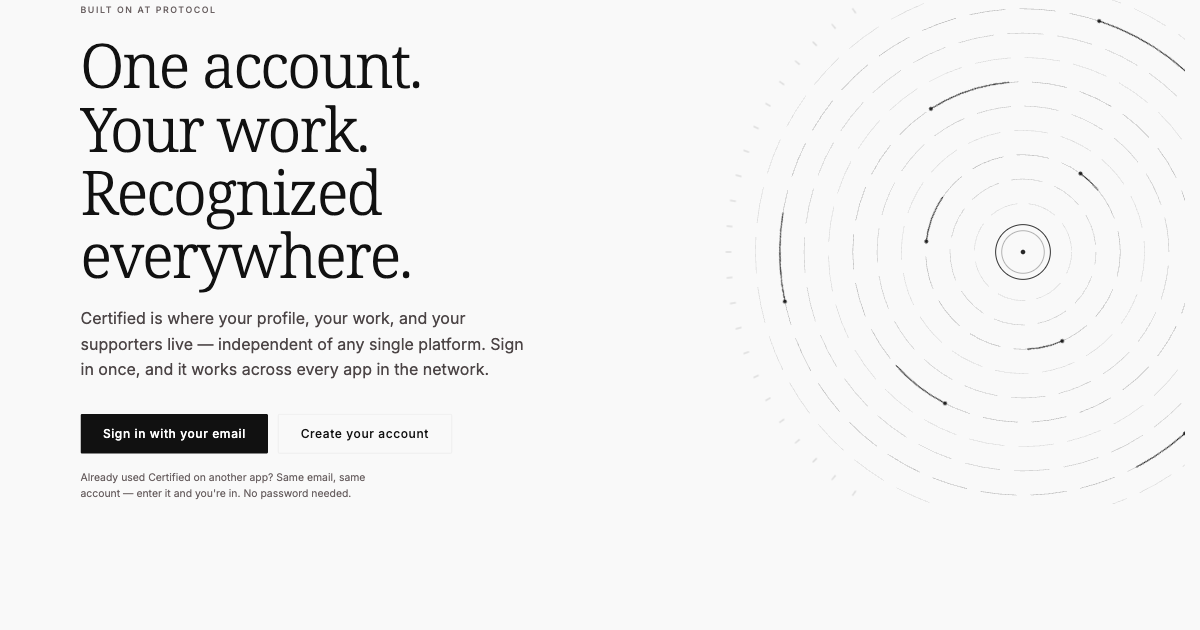
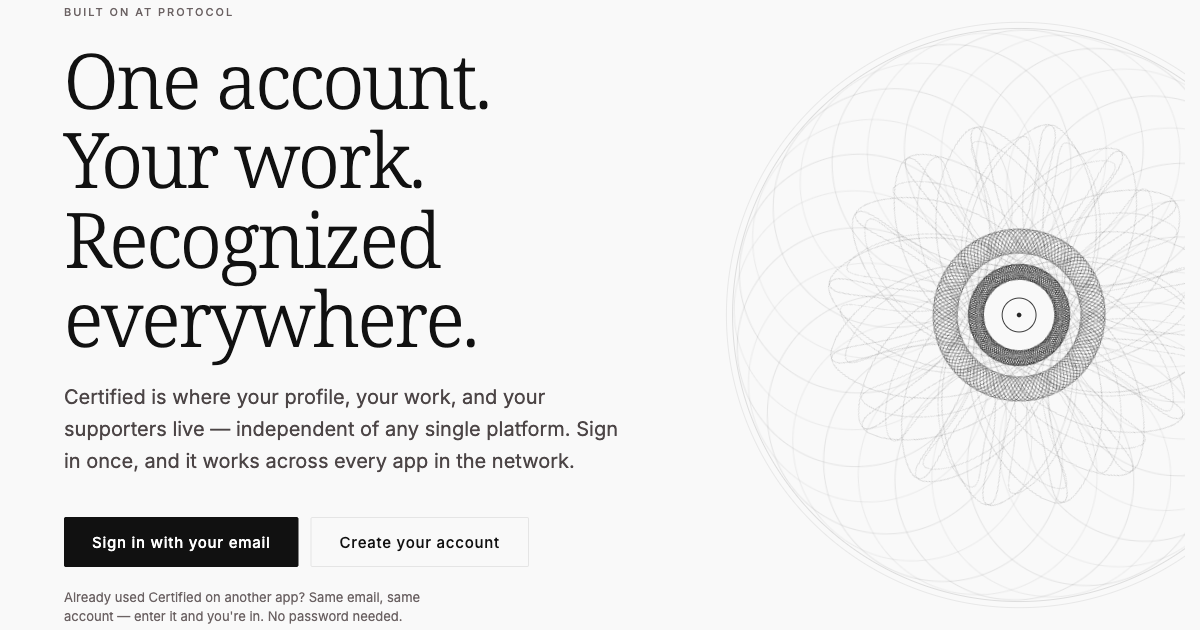
feat(welcome): replace the hero seal with an animated guilloche rosette
Engine-turned guilloche (the banknote/certificate ornament), built the
way the reference plate is: single loop shapes stamped as rotated
copies (defs + use), with ink density doing the shading. Three tonal
zones — an airy annulus of offset rings, a woven mid flower of
counter-twisted loops, and a dense core braid around the center mark.
Four layers counter-rotate at different speeds (CSS only) for the slow
moire shimmer; the global reduced-motion kill-switch freezes the plate.
Monochrome currentColor strokes, so dark mode flips for free.

The SealArt generator stays for the organizations band; the OG share
image is regenerated from the new hero.

diff --git a/src/components/landing/guilloche-art.tsx b/src/components/landing/guilloche-art.tsx
@@ -1,0 +1,149 @@
+/**
+ * GuillocheArt — the hero artwork: an engine-turned guilloche rosette,
+ * the ornament of banknotes and certificates. Three tonal zones, as on
+ * a real plate: an airy outer annulus of offset rings, a woven mid
+ * flower of counter-twisted loops, and a dense dark core braid. Each
+ * zone is ONE path stamped as rotated copies (defs + use), so ink
+ * density does the shading — no gradients, currentColor only (the
+ * .lp-hero__art wrapper sets color: var(--color-navy), which flips
+ * with the theme).
+ *
+ * The moving effect: the four groups counter-rotate at different
+ * speeds (CSS, .lp-guilloche__layer--* in landing.css). The global
+ * reduced-motion kill-switch freezes them into a static plate.
+ */
+
+const CX = 400;
+const CY = 400;
+
+/**
+ * A slim ellipse (waist x reach) bent into an S through the center:
+ * each point is rotated by twist*sin(t), so the lobe tips shear in
+ * opposite directions — the signature guilloche loop.
+ */
+function twistedLoopPath(reach: number, waist: number, twist: number, points = 160): string {
+  let d = "";
+  for (let i = 0; i <= points; i++) {
+    const t = (i / points) * Math.PI * 2;
+    const u = waist * Math.cos(t);
+    const v = reach * Math.sin(t);
+    const a = twist * Math.sin(t);
+    const x = CX + u * Math.cos(a) - v * Math.sin(a);
+    const y = CY + u * Math.sin(a) + v * Math.cos(a);
+    d += (i === 0 ? "M" : "L") + x.toFixed(1) + " " + y.toFixed(1);
+  }
+  return d + "Z";
+}
+
+/** Closed scalloped ring r(t) = base + amp*sin(lobes*t) — the core braid. */
+function scallopPath(base: number, amp: number, lobes: number, points = 200): string {
+  let d = "";
+  for (let i = 0; i <= points; i++) {
+    const t = (i / points) * Math.PI * 2;
+    const r = base + amp * Math.sin(lobes * t);
+    const x = CX + r * Math.cos(t);
+    const y = CY + r * Math.sin(t);
+    d += (i === 0 ? "M" : "L") + x.toFixed(1) + " " + y.toFixed(1);
+  }
+  return d + "Z";
+}
+
+const RING_COPIES = 28; // outer annulus
+const LOOP_A_COPIES = 16; // mid flower, twisted +
+const LOOP_B_COPIES = 12; // mid flower, twisted - (counter-weave)
+const CORE_OUTER_COPIES = 12; // core braid, phase-spread inside one lobe
+const CORE_INNER_COPIES = 10;
+
+export default function GuillocheArt() {
+  return (
+    <div className="lp-guilloche" aria-hidden="true">
+      <svg viewBox="0 0 800 800" fill="none" xmlns="http://www.w3.org/2000/svg">
+        <defs>
+          {/* Offset ring: annulus from ~60 to ~370 without touching the core */}
+          <circle id="lpg-ring" cx={CX} cy={CY - 215} r={155} />
+          <path id="lpg-loop-a" d={twistedLoopPath(250, 56, 0.58)} />
+          <path id="lpg-loop-b" d={twistedLoopPath(232, 48, -0.66)} />
+          <path id="lpg-core-outer" d={scallopPath(96, 16, 10)} />
+          <path id="lpg-core-inner" d={scallopPath(56, 10, 12)} />
+        </defs>
+
+        {/* Containment rings — the plate's frame */}
+        <circle cx={CX} cy={CY} r={372} stroke="currentColor" strokeWidth={0.75} opacity={0.16} vectorEffect="non-scaling-stroke" />
+        <circle cx={CX} cy={CY} r={380} stroke="currentColor" strokeWidth={0.75} opacity={0.1} vectorEffect="non-scaling-stroke" />
+
+        {/* Zone A: airy outer annulus */}
+        <g className="lp-guilloche__layer lp-guilloche__layer--rings">
+          {Array.from({ length: RING_COPIES }, (_, i) => (
+            <use
+              key={i}
+              href="#lpg-ring"
+              transform={`rotate(${(i * 360) / RING_COPIES} ${CX} ${CY})`}
+              stroke="currentColor"
+              strokeWidth={0.7}
+              opacity={i % 2 === 0 ? 0.17 : 0.12}
+              vectorEffect="non-scaling-stroke"
+            />
+          ))}
+        </g>
+
+        {/* Zone B: woven mid flower — two counter-twisted, counter-rotating layers */}
+        <g className="lp-guilloche__layer lp-guilloche__layer--loops-a">
+          {Array.from({ length: LOOP_A_COPIES }, (_, i) => (
+            <use
+              key={i}
+              href="#lpg-loop-a"
+              transform={`rotate(${(i * 360) / LOOP_A_COPIES} ${CX} ${CY})`}
+              stroke="currentColor"
+              strokeWidth={0.7}
+              opacity={0.22}
+              vectorEffect="non-scaling-stroke"
+            />
+          ))}
+        </g>
+        <g className="lp-guilloche__layer lp-guilloche__layer--loops-b">
+          {Array.from({ length: LOOP_B_COPIES }, (_, i) => (
+            <use
+              key={i}
+              href="#lpg-loop-b"
+              transform={`rotate(${(i * 360) / LOOP_B_COPIES} ${CX} ${CY})`}
+              stroke="currentColor"
+              strokeWidth={0.7}
+              opacity={0.18}
+              vectorEffect="non-scaling-stroke"
+            />
+          ))}
+        </g>
+
+        {/* Zone C: dense dark core braid */}
+        <g className="lp-guilloche__layer lp-guilloche__layer--core">
+          {Array.from({ length: CORE_OUTER_COPIES }, (_, i) => (
+            <use
+              key={i}
+              href="#lpg-core-outer"
+              transform={`rotate(${(i * 36) / CORE_OUTER_COPIES} ${CX} ${CY})`}
+              stroke="currentColor"
+              strokeWidth={0.9}
+              opacity={0.5}
+              vectorEffect="non-scaling-stroke"
+            />
+          ))}
+          {Array.from({ length: CORE_INNER_COPIES }, (_, i) => (
+            <use
+              key={`i${i}`}
+              href="#lpg-core-inner"
+              transform={`rotate(${(i * 30) / CORE_INNER_COPIES} ${CX} ${CY})`}
+              stroke="currentColor"
+              strokeWidth={1}
+              opacity={0.7}
+              vectorEffect="non-scaling-stroke"
+            />
+          ))}
+        </g>
+
+        {/* The account at the center */}
+        <circle cx={CX} cy={CY} r={22} stroke="currentColor" strokeWidth={1.25} opacity={0.85} />
+        <circle cx={CX} cy={CY} r={3} fill="currentColor" opacity={0.9} />
+      </svg>
+    </div>
+  );
+}

diff --git a/src/app/styles/landing.css b/src/app/styles/landing.css
@@ -217,6 +217,39 @@
   transform-origin: 400px 400px;
 }
 
+/* ---------- Guilloche artwork (hero) ---------- */
+
+.lp-guilloche,
+.lp-guilloche svg {
+  width: 100%;
+  height: 100%;
+  display: block;
+}
+
+/* Counter-rotating layers give the engine-turned moire its slow
+   shimmer; the global reduced-motion kill-switch freezes them. */
+.lp-guilloche__layer {
+  transform-origin: 400px 400px;
+  animation: lpSealRotate linear infinite;
+}
+
+.lp-guilloche__layer--rings {
+  animation-duration: 240s;
+}
+
+.lp-guilloche__layer--loops-a {
+  animation-duration: 150s;
+}
+
+.lp-guilloche__layer--loops-b {
+  animation-duration: 110s;
+  animation-direction: reverse;
+}
+
+.lp-guilloche__layer--core {
+  animation-duration: 80s;
+}
+
 /* ---------- Hero ---------- */
 
 .lp-hero {
@@ -346,10 +379,13 @@
     overflow: hidden;
   }
   .lp-hero__art .lp-seal,
-  .lp-hero__art .lp-seal svg {
+  .lp-hero__art .lp-seal svg,
+  .lp-hero__art .lp-guilloche,
+  .lp-hero__art .lp-guilloche svg {
     height: auto;
   }
-  .lp-hero__art .lp-seal {
+  .lp-hero__art .lp-seal,
+  .lp-hero__art .lp-guilloche {
     margin-top: -8%;
   }
   .lp-hero__actions {

diff --git a/src/components/landing/sections/hero.tsx b/src/components/landing/sections/hero.tsx
@@ -1,16 +1,17 @@
 import HeroCta from "@/components/landing/hero-cta";
-import SealArt from "@/components/landing/seal-art";
+import GuillocheArt from "@/components/landing/guilloche-art";
 
 /**
  * Landing hero. Asymmetric two-column composition: copy in the left
- * five columns, the full seal artwork bleeding off the right edge.
- * Below 800px the seal becomes a cropped band above the stacked copy.
+ * five columns, the guilloche rosette bleeding off the right edge.
+ * Below 800px the artwork becomes a cropped band above the stacked
+ * copy.
  */
 export default function Hero() {
   return (
     <section className="lp-hero" aria-labelledby="lp-hero-title">
       <div className="lp-hero__art">
-        <SealArt />
+        <GuillocheArt />
       </div>
       <div className="lp-section__inner lp-hero__inner">
         <div className="lp-hero__copy">
